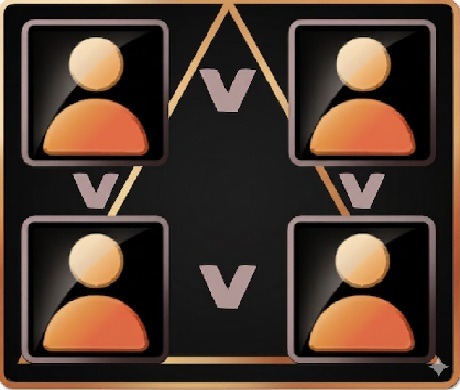
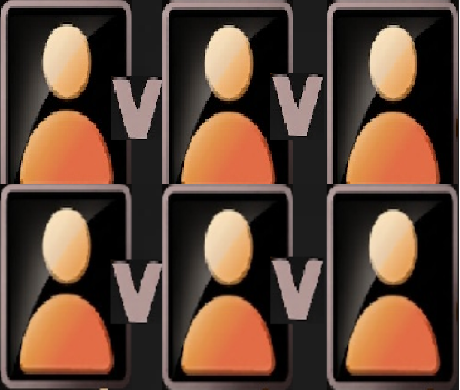
Corrected scaling of images

diff --git a/index.html b/index.html
@@ -1,1 +1,1 @@
-<html><head><meta content="text/html;charset=utf-8" http-equiv="Content-Type" /><meta content="utf-8" http-equiv="encoding" /><meta name="viewport" content="width=device-width, initial-scale=1.0, maximum-scale=1.0, minimum-scale=1.0, user-scalable=no, minimal-ui" /><title>8 Ball Billiards Classic</title><style>body{font-family:"Trebuchet MS",Verdana,sans-serif}#pool-online-shell{position:fixed;inset:0;pointer-events:none;z-index:99999}#pool-online-shell *{box-sizing:border-box}#pool-online-menu,#pool-online-lobby,#pool-online-turn,#pool-online-hud{pointer-events:auto}#pool-online-menu{position:fixed;left:20px;bottom:20px;width:min(360px,calc(100vw - 40px));padding:18px;border:1px solid rgba(255,255,255,.18);border-radius:16px;background:linear-gradient(160deg,rgba(8,24,18,.92),rgba(6,47,35,.9));color:#fff;box-shadow:0 18px 50px rgba(0,0,0,.35)}#pool-online-menu.hidden,#pool-online-lobby.hidden,#pool-online-turn.hidden,#pool-online-hud.hidden{display:none}#pool-online-menu h2,#pool-online-lobby h2{margin:0 0 8px;font-size:22px;line-height:1.1}#pool-online-menu p,#pool-online-lobby p{margin:0 0 14px;color:rgba(255,255,255,.8);font-size:14px;line-height:1.45}#pool-online-menu .pool-grid{display:grid;grid-template-columns:1fr 1fr;gap:10px;margin-bottom:12px}#pool-online-menu button,#pool-online-lobby button{appearance:none;border:0;border-radius:12px;padding:12px 14px;font:700 14px "Trebuchet MS",Verdana,sans-serif;cursor:pointer}#pool-online-menu .primary,#pool-online-lobby .primary{background:#38b26b;color:#08140f}#pool-online-menu .secondary,#pool-online-lobby .secondary{background:#0f2920;color:#fff;border:1px solid rgba(255,255,255,.12)}#pool-online-menu .danger,#pool-online-lobby .danger{background:#512020;color:#fff}#pool-online-menu input,#pool-online-lobby input{width:100%;margin:0 0 10px;padding:12px 13px;border-radius:12px;border:1px solid rgba(255,255,255,.14);background:rgba(0,0,0,.18);color:#fff;font:600 14px "Trebuchet MS",Verdana,sans-serif}#pool-online-menu .pool-join{display:grid;grid-template-columns:1fr auto;gap:10px}#pool-online-menu .pool-small{font-size:12px;color:rgba(255,255,255,.62)}#pool-online-lobby{position:fixed;right:20px;top:20px;width:min(380px,calc(100vw - 40px));padding:18px;border:1px solid rgba(255,255,255,.16);border-radius:16px;background:rgba(8,14,24,.92);color:#fff;box-shadow:0 18px 50px rgba(0,0,0,.35)}#pool-online-lobby .room-line{display:flex;justify-content:space-between;align-items:center;gap:12px;margin-bottom:12px}#pool-online-lobby .code{font-size:20px;font-weight:700;letter-spacing:1px}#pool-online-lobby ul{list-style:none;padding:0;margin:0 0 14px}#pool-online-lobby li{display:flex;justify-content:space-between;gap:12px;padding:10px 12px;margin-bottom:8px;border-radius:12px;background:rgba(255,255,255,.06);font-size:14px}#pool-online-lobby .lobby-actions{display:flex;gap:10px;flex-wrap:wrap}#pool-online-turn{position:fixed;inset:0;background:rgba(0,0,0,.28);display:flex;align-items:center;justify-content:center;color:#fff;text-align:center;padding:24px}#pool-online-turn .turn-card{max-width:420px;padding:18px 20px;border-radius:16px;background:rgba(7,11,19,.88);border:1px solid rgba(255,255,255,.12);box-shadow:0 18px 50px rgba(0,0,0,.35)}#pool-online-turn strong{display:block;font-size:24px;margin-bottom:6px}#pool-online-hud{position:fixed;top:50%;right:18px;transform:translateY(-50%);display:flex;flex-direction:column;gap:10px;align-items:stretch;justify-content:center;width:min(240px,22vw)}#pool-online-hud .hud-pill{min-width:0;padding:10px 14px;border-radius:16px;background:rgba(7,11,19,.72);color:#fff;border:1px solid rgba(255,255,255,.12);backdrop-filter:blur(8px);text-align:center}#pool-online-hud .hud-pill.active{box-shadow:0 0 0 2px rgba(255,255,255,.28) inset;background:rgba(255,255,255,.18)}#pool-online-hud .hud-name{display:block;font-size:12px;letter-spacing:.4px;text-transform:uppercase;color:rgba(255,255,255,.76)}#pool-online-hud .hud-target{display:block;font-size:18px;font-weight:700;margin-top:2px}#pool-online-hud .red{color:#ff7a7a}#pool-online-hud .green{color:#71ef8f}#pool-online-hud .blue{color:#79b8ff}#pool-online-hud .black{color:#f4f1d0}.pool-message{min-height:18px;font-size:12px;color:#f9df97}@media (max-width:900px){#pool-online-hud{top:auto;right:50%;bottom:14px;transform:translateX(50%);flex-direction:row;flex-wrap:wrap;justify-content:center;width:min(94vw,720px)}}@media (max-width:720px){#pool-online-menu,#pool-online-lobby{left:12px;right:12px;width:auto}#pool-online-lobby{top:auto;bottom:12px}#pool-online-menu{bottom:auto;top:12px}#pool-online-hud{bottom:10px;width:min(96vw,640px)}#pool-online-hud .hud-pill{flex:1 1 180px}}</style><script>window.gameID="8-ball-billiards-classic"; window.gameJS=[ "assets/src/01phaser.js", "assets/src/02Ball.js", "assets/src/03contactListener.js", "assets/src/04billiardPhysics.js", "assets/src/05levelData.js", "assets/src/06maths.js", "assets/src/07vector2d.js", "assets/src/08render.js", "assets/src/09sound.js", "assets/src/10effects.js", "assets/src/11timer.js", "assets/src/12load.js", "assets/src/13mainMenu.js", "assets/src/14setup.js", "assets/src/15gameController.js", "assets/src/16boot.js", "assets/src/17multiplayer.js", function (){}, ]; (function (document, url, fgJS, firstJS){ fgJS=document.createElement("script"); firstJS=document.getElementsByTagName("script")[0]; fgJS.src=url + ""; firstJS.parentNode.insertBefore(fgJS, firstJS);})(document, "html5games/gameapi/v1.js"); </script></head><body><center><div id="mygame"></div></center><div id="pool-online-shell"><div id="pool-online-menu" class="hidden"></div><div id="pool-online-lobby" class="hidden"></div><div id="pool-online-turn" class="hidden"></div><div id="pool-online-hud" class="hidden"></div></div></body></html>
+<html><head><meta content="text/html;charset=utf-8" http-equiv="Content-Type" /><meta content="utf-8" http-equiv="encoding" /><meta name="viewport" content="width=device-width, initial-scale=1.0, maximum-scale=1.0, minimum-scale=1.0, user-scalable=no, minimal-ui" /><title>8 Ball Billiards Classic</title><style>body{font-family:"Trebuchet MS",Verdana,sans-serif}#pool-online-shell{position:fixed;inset:0;pointer-events:none;z-index:99999}#pool-online-shell *{box-sizing:border-box}#pool-online-menu,#pool-online-lobby,#pool-online-turn,#pool-online-hud{pointer-events:auto}#pool-online-menu{position:fixed;left:20px;bottom:20px;width:min(360px,calc(100vw - 40px));padding:18px;border:1px solid rgba(255,255,255,.18);border-radius:16px;background:linear-gradient(160deg,rgba(8,24,18,.92),rgba(6,47,35,.9));color:#fff;box-shadow:0 18px 50px rgba(0,0,0,.35)}#pool-online-menu.hidden,#pool-online-lobby.hidden,#pool-online-turn.hidden,#pool-online-hud.hidden{display:none}#pool-online-menu h2,#pool-online-lobby h2{margin:0 0 8px;font-size:22px;line-height:1.1}#pool-online-menu p,#pool-online-lobby p{margin:0 0 14px;color:rgba(255,255,255,.8);font-size:14px;line-height:1.45}#pool-online-menu .pool-grid{display:grid;grid-template-columns:1fr 1fr;gap:10px;margin-bottom:12px}#pool-online-menu button,#pool-online-lobby button{appearance:none;border:0;border-radius:12px;padding:12px 14px;font:700 14px "Trebuchet MS",Verdana,sans-serif;cursor:pointer}#pool-online-menu .primary,#pool-online-lobby .primary{background:#38b26b;color:#08140f}#pool-online-menu .secondary,#pool-online-lobby .secondary{background:#0f2920;color:#fff;border:1px solid rgba(255,255,255,.12)}#pool-online-menu .danger,#pool-online-lobby .danger{background:#512020;color:#fff}#pool-online-menu input,#pool-online-lobby input{width:100%;margin:0 0 10px;padding:12px 13px;border-radius:12px;border:1px solid rgba(255,255,255,.14);background:rgba(0,0,0,.18);color:#fff;font:600 14px "Trebuchet MS",Verdana,sans-serif}#pool-online-menu .pool-join{display:grid;grid-template-columns:1fr auto;gap:10px}#pool-online-menu .pool-small{font-size:12px;color:rgba(255,255,255,.62)}#pool-online-lobby{position:fixed;right:20px;top:20px;width:min(380px,calc(100vw - 40px));padding:18px;border:1px solid rgba(255,255,255,.16);border-radius:16px;background:rgba(8,14,24,.92);color:#fff;box-shadow:0 18px 50px rgba(0,0,0,.35)}#pool-online-lobby .room-line{display:flex;justify-content:space-between;align-items:center;gap:12px;margin-bottom:12px}#pool-online-lobby .code{font-size:20px;font-weight:700;letter-spacing:1px}#pool-online-lobby ul{list-style:none;padding:0;margin:0 0 14px}#pool-online-lobby li{display:flex;justify-content:space-between;gap:12px;padding:10px 12px;margin-bottom:8px;border-radius:12px;background:rgba(255,255,255,.06);font-size:14px}#pool-online-lobby .lobby-actions{display:flex;gap:10px;flex-wrap:wrap}#pool-online-turn{position:fixed;inset:0;background:rgba(0,0,0,.28);display:flex;align-items:center;justify-content:center;color:#fff;text-align:center;padding:24px}#pool-online-turn .turn-card{max-width:420px;padding:18px 20px;border-radius:16px;background:rgba(7,11,19,.88);border:1px solid rgba(255,255,255,.12);box-shadow:0 18px 50px rgba(0,0,0,.35)}#pool-online-turn strong{display:block;font-size:24px;margin-bottom:6px}#pool-online-hud{position:fixed;top:50%;left:18px;transform:translateY(-50%);display:flex;flex-direction:column;gap:10px;align-items:stretch;justify-content:center;width:min(240px,22vw)}#pool-online-hud .hud-pill{min-width:0;padding:10px 14px;border-radius:16px;background:rgba(7,11,19,.72);color:#fff;border:1px solid rgba(255,255,255,.12);backdrop-filter:blur(8px);text-align:center}#pool-online-hud .hud-pill.active{box-shadow:0 0 0 2px rgba(255,255,255,.28) inset;background:rgba(255,255,255,.18)}#pool-online-hud .hud-name{display:block;font-size:12px;letter-spacing:.4px;text-transform:uppercase;color:rgba(255,255,255,.76)}#pool-online-hud .hud-target{display:block;font-size:18px;font-weight:700;margin-top:2px}#pool-online-hud .red{color:#ff7a7a}#pool-online-hud .green{color:#71ef8f}#pool-online-hud .blue{color:#79b8ff}#pool-online-hud .black{color:#f4f1d0}.pool-message{min-height:18px;font-size:12px;color:#f9df97}@media (max-width:900px){#pool-online-hud{top:auto;left:50%;bottom:14px;transform:translateX(-50%);flex-direction:row;flex-wrap:wrap;justify-content:center;width:min(94vw,720px)}}@media (max-width:720px){#pool-online-menu,#pool-online-lobby{left:12px;right:12px;width:auto}#pool-online-lobby{top:auto;bottom:12px}#pool-online-menu{bottom:auto;top:12px}#pool-online-hud{bottom:10px;width:min(96vw,640px)}#pool-online-hud .hud-pill{flex:1 1 180px}}</style><script>window.gameID="8-ball-billiards-classic"; window.gameJS=[ "assets/src/01phaser.js", "assets/src/02Ball.js", "assets/src/03contactListener.js", "assets/src/04billiardPhysics.js", "assets/src/05levelData.js", "assets/src/06maths.js", "assets/src/07vector2d.js", "assets/src/08render.js", "assets/src/09sound.js", "assets/src/10effects.js", "assets/src/11timer.js", "assets/src/12load.js", "assets/src/13mainMenu.js", "assets/src/14setup.js", "assets/src/15gameController.js", "assets/src/16boot.js", "assets/src/17multiplayer.js", function (){}, ]; (function (document, url, fgJS, firstJS){ fgJS=document.createElement("script"); firstJS=document.getElementsByTagName("script")[0]; fgJS.src=url + ""; firstJS.parentNode.insertBefore(fgJS, firstJS);})(document, "html5games/gameapi/v1.js"); </script></head><body><center><div id="mygame"></div></center><div id="pool-online-shell"><div id="pool-online-menu" class="hidden"></div><div id="pool-online-lobby" class="hidden"></div><div id="pool-online-turn" class="hidden"></div><div id="pool-online-hud" class="hidden"></div></div></body></html>